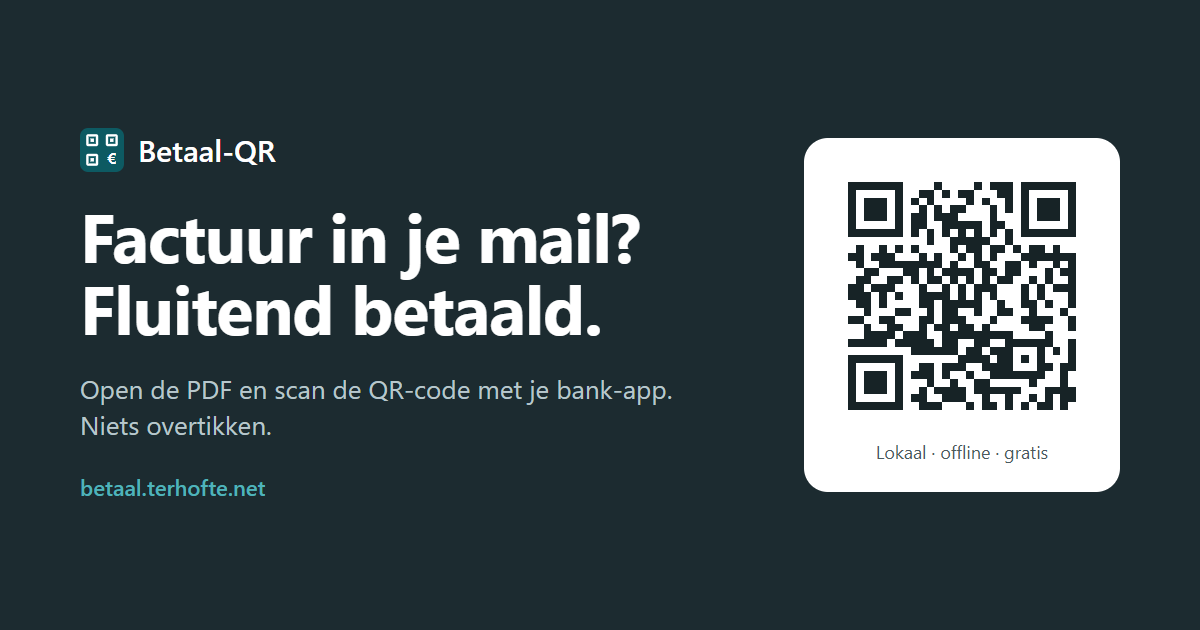
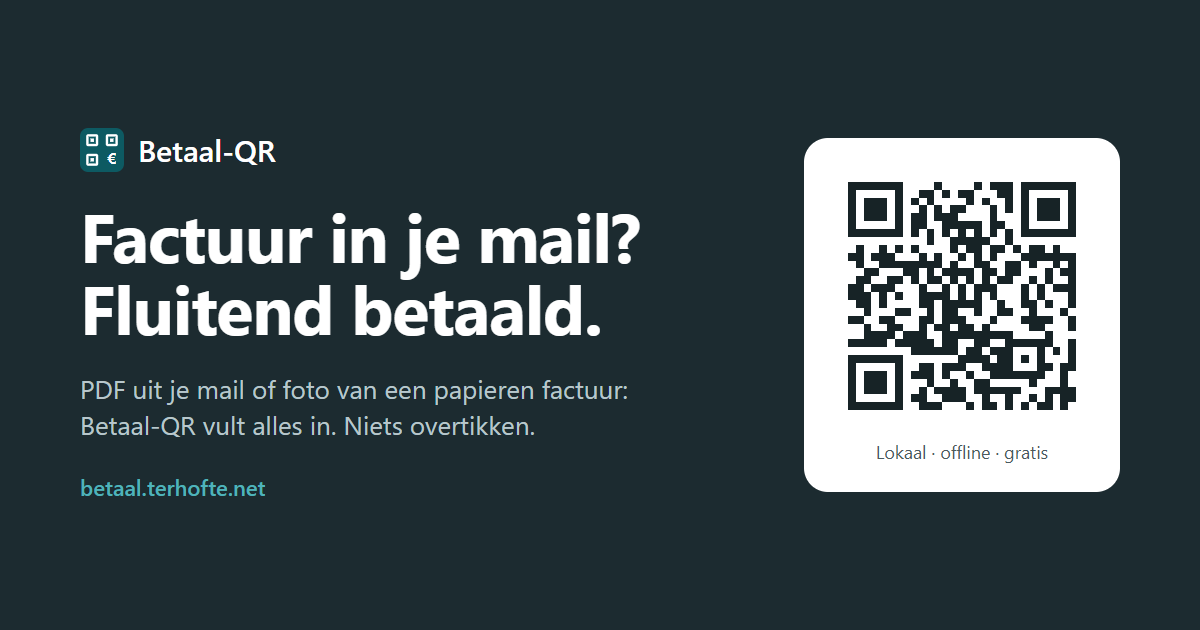
Preview en omschrijvingen: ook foto van een papieren factuur
De onderregel van het social-media-plaatje, de meta-omschrijvingen en het manifest noemden alleen
de PDF; nu: "PDF uit je mail of foto van een papieren factuur: Betaal-QR vult alles in."

Claude-Session: https://claude.ai/code/session_01JjieB18CkkwmkdSMfYamWB

Changed region(s): [[0.0617, 0.6032, 0.555, 0.6333], [0.0617, 0.6635, 0.4625, 0.6937]]

diff --git a/index.html b/index.html
@@ -7,7 +7,7 @@
   <meta name="viewport" content="width=device-width, initial-scale=1">
   <meta http-equiv="Content-Security-Policy" content="default-src 'none'; script-src 'self'; style-src 'self'; img-src 'self' blob: data:; manifest-src 'self'; worker-src 'self'; connect-src 'none'; base-uri 'none'; form-action 'none'">
   <meta name="referrer" content="no-referrer">
-  <meta name="description" content="Factuur in je mail? Fluitend betaald. Open de PDF en scan de betaal-QR-code met je bank-app. Alles blijft in je browser.">
+  <meta name="description" content="Factuur in je mail? Fluitend betaald. PDF uit je mail of foto van een papieren factuur: Betaal-QR vult alles in en maakt een betaal-QR-code. Alles blijft in je browser.">
   <meta name="theme-color" content="#1c2b30">
   <link rel="canonical" href="https://betaal.terhofte.net/">
   <!-- Preview bij delen op social media en in chat-apps -->
@@ -16,12 +16,12 @@
   <meta property="og:locale" content="nl_NL">
   <meta property="og:url" content="https://betaal.terhofte.net/">
   <meta property="og:title" content="Betaal-QR: Factuur in je mail? Fluitend betaald.">
-  <meta property="og:description" content="Open de PDF en scan de QR-code met je bank-app. Niets overtikken, en alles blijft op je eigen apparaat. Gratis en open source.">
+  <meta property="og:description" content="PDF uit je mail of foto van een papieren factuur: Betaal-QR vult alles in. Niets overtikken, en alles blijft op je eigen apparaat. Gratis en open source.">
   <meta property="og:image" content="https://betaal.terhofte.net/beeld/og.png">
   <meta property="og:image:type" content="image/png">
   <meta property="og:image:width" content="1200">
   <meta property="og:image:height" content="630">
-  <meta property="og:image:alt" content="Betaal-QR: Factuur in je mail? Fluitend betaald. Met een QR-code naar betaal.terhofte.net.">
+  <meta property="og:image:alt" content="Betaal-QR: Factuur in je mail? Fluitend betaald. PDF uit je mail of foto van een papieren factuur: Betaal-QR vult alles in. Met een QR-code naar betaal.terhofte.net.">
   <meta name="twitter:card" content="summary_large_image">
   <title>Betaal-QR</title>
   <link rel="manifest" href="manifest.webmanifest">

diff --git a/tools/og.html b/tools/og.html
@@ -26,7 +26,7 @@
     <div class="links">
       <div class="merk">ICOON_SVG <span>Betaal-QR</span></div>
       <h1>Factuur in je mail? Fluitend betaald.</h1>
-      <p class="sub">Open de PDF en scan de QR-code met je bank-app. Niets overtikken.</p>
+      <p class="sub">PDF uit je mail of foto van een papieren factuur: <span style="white-space:nowrap">Betaal-QR</span> vult alles in. Niets overtikken.</p>
       <p class="url">betaal.terhofte.net</p>
     </div>
     <div class="qr">
